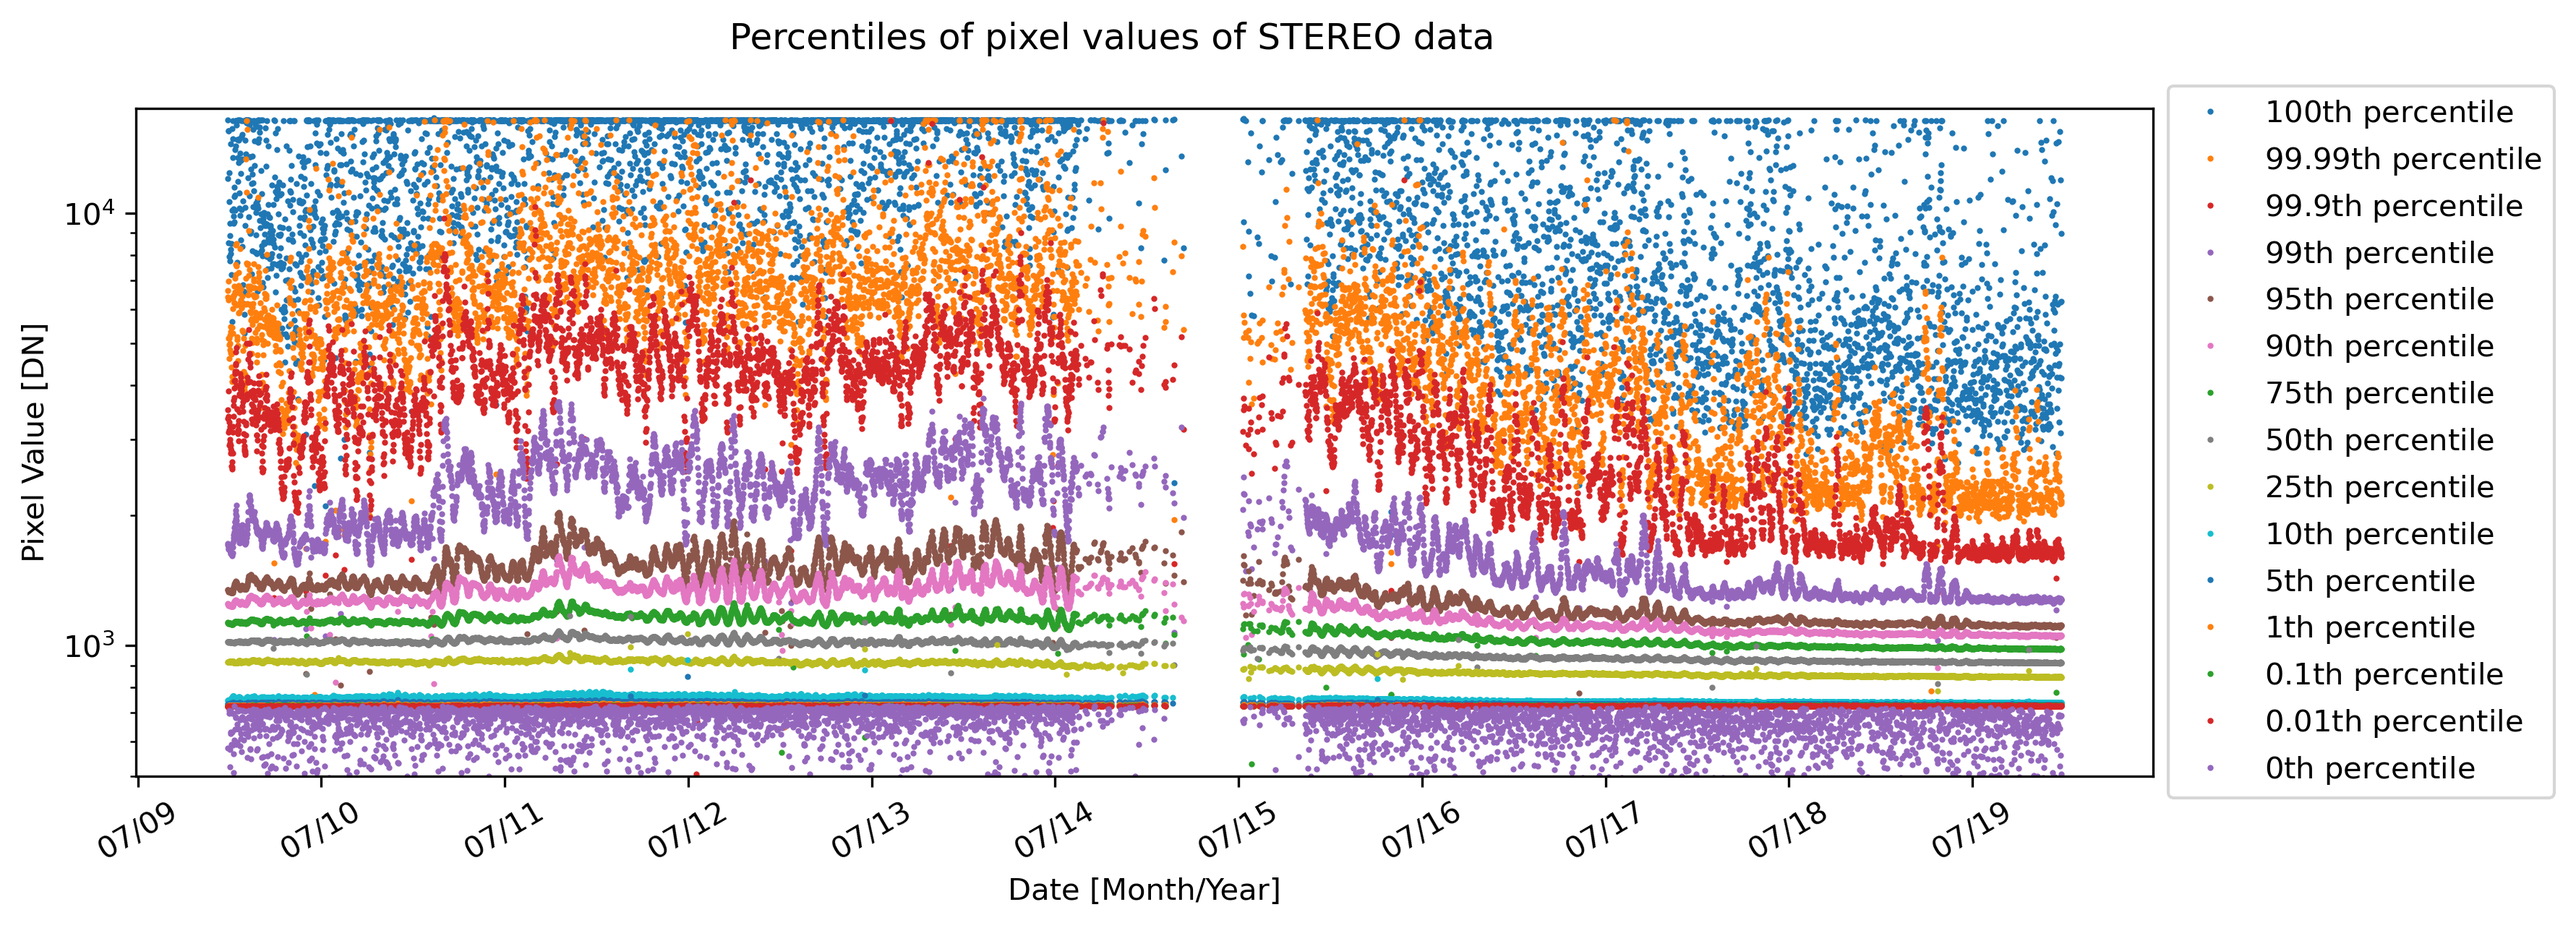
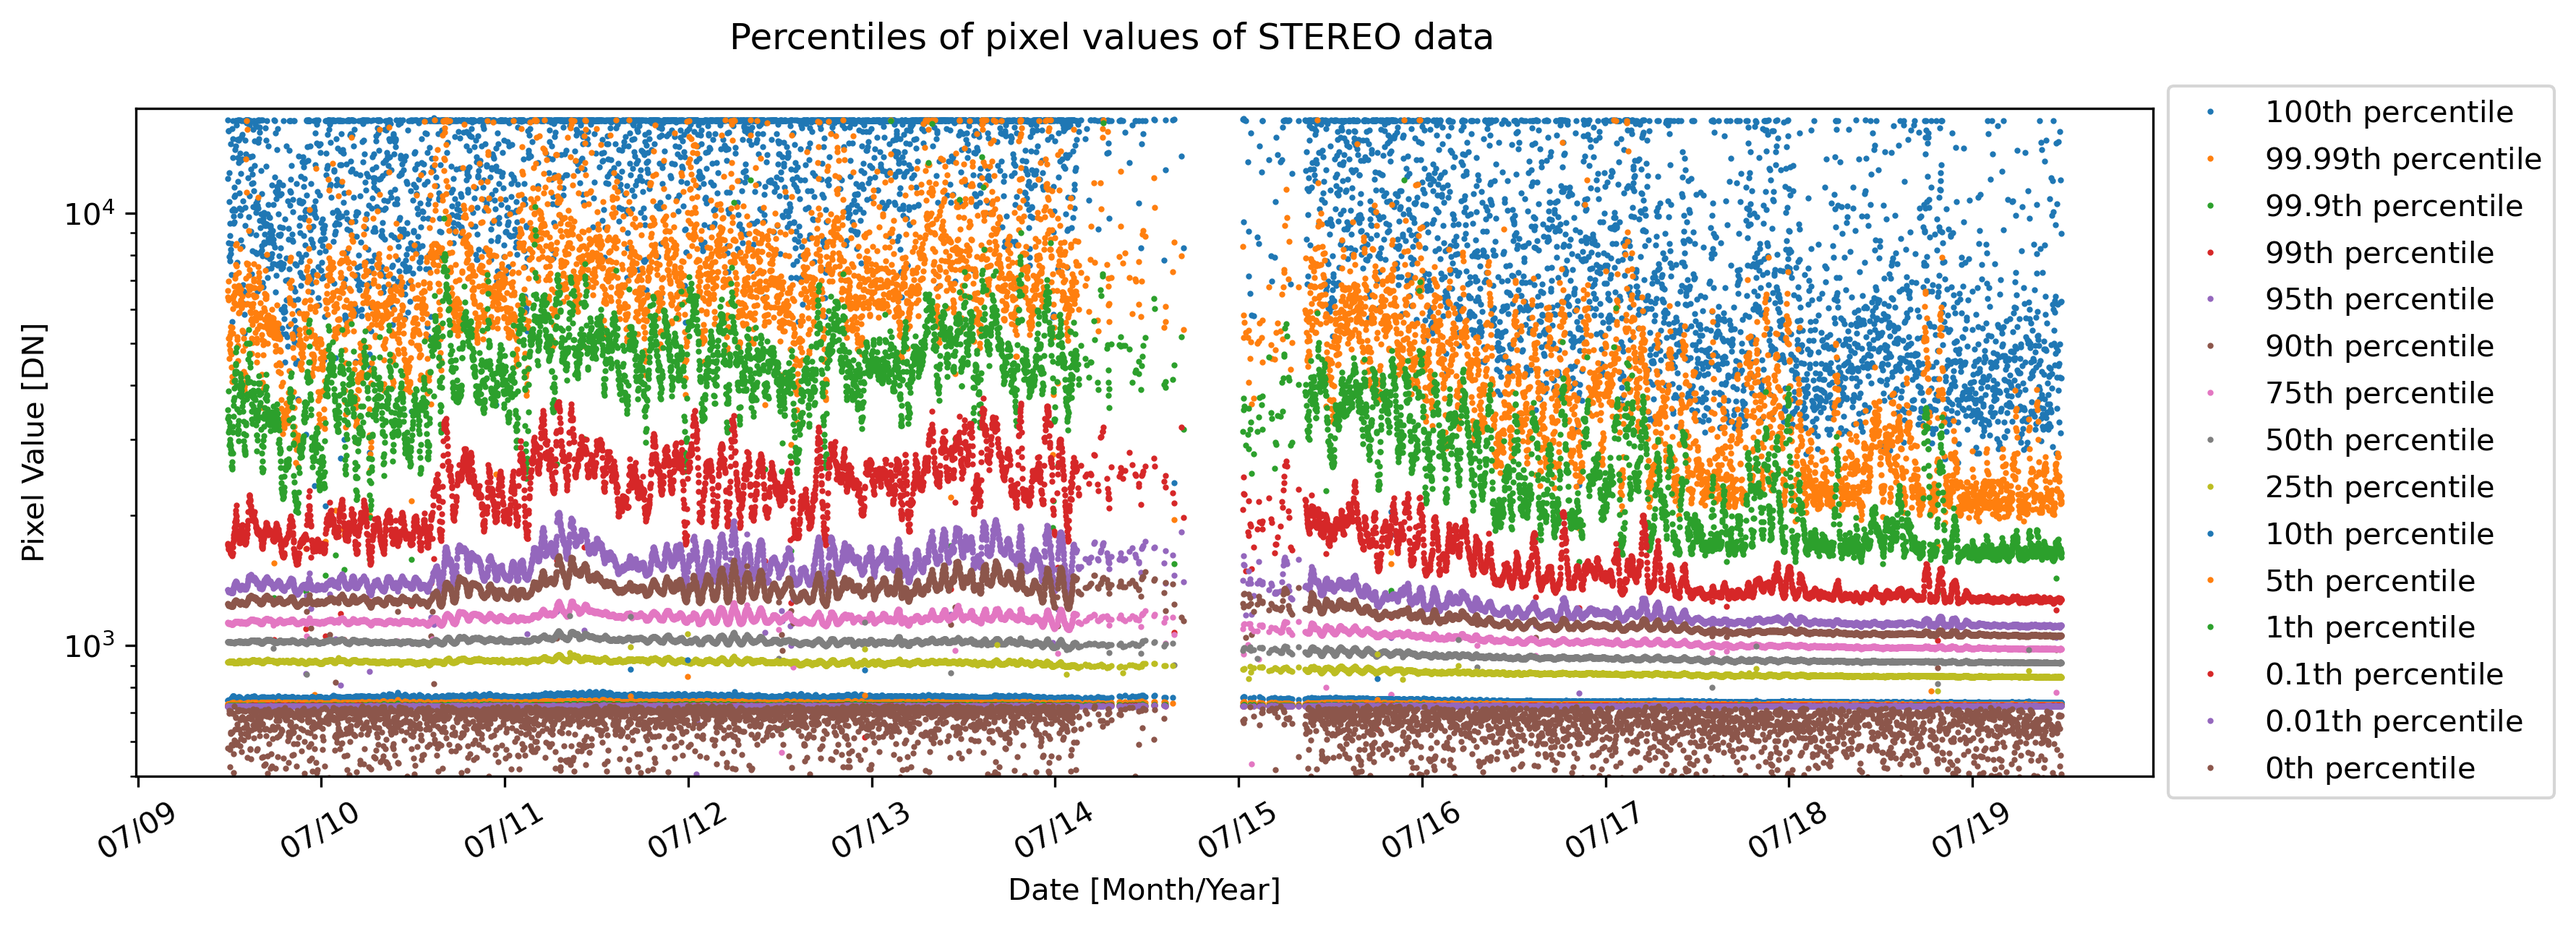
clipping

Changed region(s): [[0.0623, 0.2804, 0.81, 0.7165], [0.0623, 0.7165, 0.81, 0.8411]]

diff --git a/thesis.tex b/thesis.tex
@@ -674,54 +674,44 @@ longitude of the Observer. \\
   50 point intervals ( was the most stable) indicating that it did not fluctuate
   with individual active regions, and was better representative of the quality
   of the instrument. The percentiles of the data after applying this
-  weighting are shown in Figure \ref{fig:aia_no_degredation}.
+  weighting are shown in Figure \ref{fig:aia_no_degradation}.
   \item This method is not perfect, and some of the real trend in the data
   caused by the solar cycle was also inadvertently removed.
+  \item while this is not ideal this mainly effects the quiet sun and had a
+  smaller effect on the active regions.
 
   \item To ensure that the GAN trained on SDO data would carry over well to
   STEREO data, the STEREO data was normalised to match the SDO dataset.
   \item This is complicated by the fact that SDO and STEREO have different EUV
   instruments, and so the pixel values have different ranges. The percentiles of
-  the STEREO data is shown in Figure \ref{fig:stereo_percentiles}. Clearly the image
-  
-  
-  the images from
-  these datasets.  The
-  zero point for the AIA data seemed like a good overall zeropoint,
-  ~3% of the AIA data was below zero
-  Conversely, for the stereo data the same percentile of data had a value below
-  725, i.e. a value of zero in a pixel from AIA was roughly equivalent to a
-  value of 725 in a STEREO pixel Therefore STEREO data was normalised in the
-  following steps:
-  
-  \item As can be seen in Figure \ref{fig:aia_percentiles}, pixel values above
-  $\approx \SI[]{2e4}[]{DN}$ are clipped by the instrument. After
-  accounting for the instrument degradation, this becomes the wavy line seen in Figure
-  \ref{fig:aia_no_degredation}. To avoid the GAN learning any relation from this
-  we must make the clipping uniform across the whole dataset. However since we
-  need to directly relate the AIA images to the STEREO images, this also needs
-  to match the clipping of STEREO. 
-  
-  The same procedure was applied to the STEREO data set, with the result
-  after each step shown in Figure 
+  the STEREO data is shown in Figure \ref{fig:stereo_percentiles}.
+  \item The gap in the STEREO data due to the aforementioned instrument shut off
+  during STEREO's superior solar conjunction.
+  \item To ensure the normalisation was consistent for between both data sets,
+  The STEREO data was shifted such that a pixel value of 0 was an equivalent UV
+  intensity for both STEREO and SDO data.
+  \item It was found that $\sim 3 \%$ of the SDO pixels had a value below 0,
+  while the same percentage of STEREO pixels had a value below $\SI[]{725}[]{DN}$.
+  \item Accordingly, the STEREO pixels were first shifted down by
+  $\SI[]{725}[]{DN}$ before excluding outliers and accounting for instrument
+  degradation using the same method as in the SDO data. This process is shown in
+  Figures \ref{fig:stereo_shifted}, \ref{fig:stereo_outliers} and
+  \ref{fig:stereo_no_degradation}.
+  \item As can be seen in Figures \ref{fig:aia_percentiles} and
+  \ref{fig:stereo_data_prep}, pixel values above $\approx \SI[]{2e4}[]{DN}$ are
+  clipped by the instrument for both SDO and STEREO. However after accounting
+  for instrument degradation and the offset of the STEREO data, the clipping
+  becomes the wavy curve seen in Figures \ref{fig:aia_no_degradation} and
+  \ref{fig:stereo_no_degradation}. To avoid the UV GAN learning any relation from
+  this we introduced our own clipping that was uniform across both datasets.
+  \item Since the STEREO data was clipped at a lower point than the AIA data,
+  this uniform clipping point was chosen to be the minimum of a 50 point rolling
+  average of the maximum pixel values across the STEREO data, which was $\sim \SI[]{32}[]{DN}$. This clipping
+  point is also shown in Figure \ref{fig:stereo_no_degradation}.
+  \item 
 \end{itemize}
 
 
-% outlier cutoff for stereo
-
-% long term degredation aia
-
-% long term degredation stereo
-
-
-% instrument clipping
-% To account for this
-% degradation, the image was clipped to the 95th percentile of the pixel
-% intensity and normalised.
-
-% shifting to match aia and stereo
-
-% normalisation
 
 \begin{figure}[t]%
   \centering
@@ -736,7 +726,7 @@ longitude of the Observer. \\
   }%
   \qquad
   \subfigure[]{%
-    \label{fig:aia_no_degredation}%
+    \label{fig:aia_no_degradation}%
     \includegraphics[width=\linewidth]{AIA_no_degradation.png}% 
   }%
 
@@ -748,6 +738,7 @@ longitude of the Observer. \\
   \label{fig:aia_data_prep}
 \end{figure}
 
+
 \begin{figure}[t]%
   \centering
   \subfigure[]{%
@@ -755,6 +746,20 @@ longitude of the Observer. \\
     \includegraphics[width=\linewidth]{STEREO_percentiles.png}%
   }%
   \qquad
+  \subfigure[]{%
+  \label{fig:stereo_shifted}
+  \includegraphics[width=\linewidth]{STEREO_shifted.png}%
+}%
+\qquad
+\subfigure[]{%
+\label{fig:stereo_outliers}
+\includegraphics[width=\linewidth]{STEREO_outlier.png}%
+}%
+\qquad
+\subfigure[]{%
+\label{fig:stereo_no_degradation}
+\includegraphics[width=\linewidth]{STEREO_no_degradation.png}%
+}%
   
   \caption[]{}
   \label{fig:stereo_data_prep}
@@ -977,6 +982,13 @@ of the unsigned magnetic field, area and unsigned magnetic flux.
 \end{itemize}
 
 
+% Use a piGAN (physically informed GAN Use a better gan
+% https://openaccess.thecvf.com/content_CVPRW_2020/papers/w11/Alshehhi_Deep_Regression_for_Imaging_Solar_Magnetograms_Using_Pyramid_Generative_Adversarial_CVPRW_2020_paper.pdf
+% Could help boundary conditions for dynamo models “since large-scale flux is
+% generated by the deep-seated dynamo, the observed characteristics of flux
+% emergence and that of the subsequent decay provide vital clues as well as
+% boundary conditions for dynamo models”
+% https://link.springer.com/article/10.1007%2Flrsp-2015-1 
 
 
 
